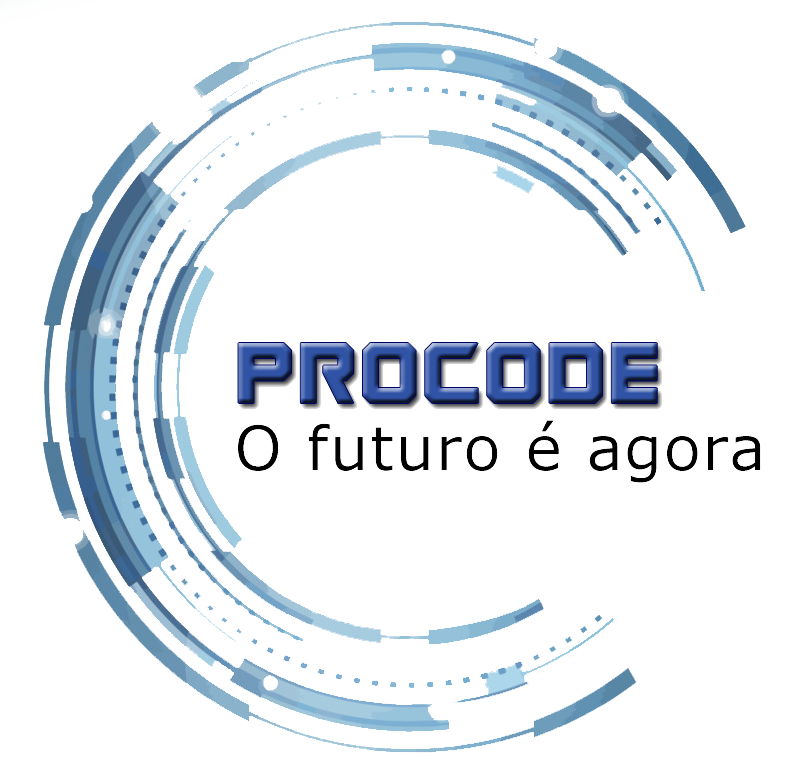
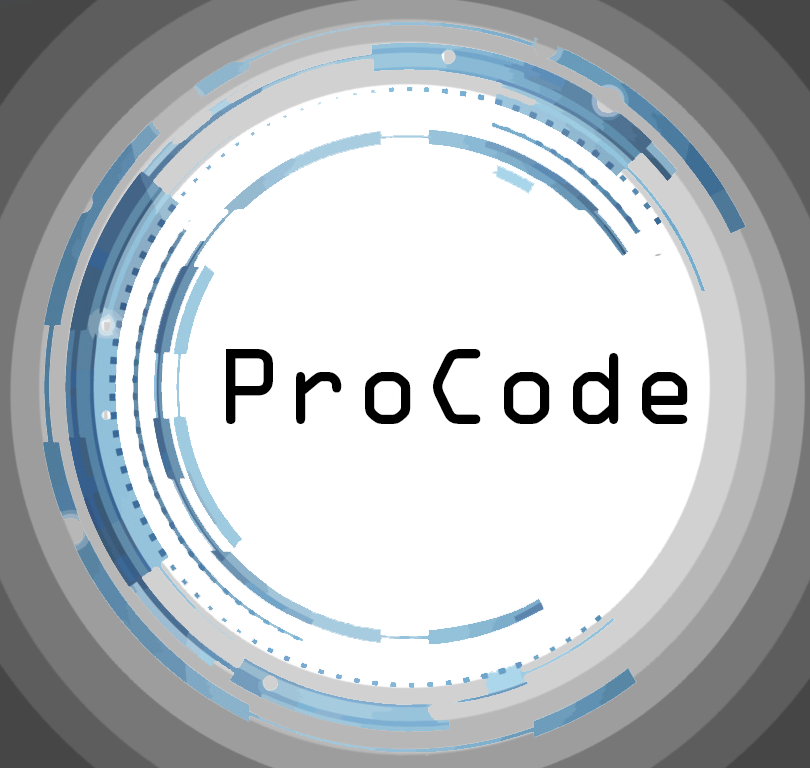
Felipe

diff --git a/css/style.css b/css/style.css
@@ -7,10 +7,11 @@
 
 body{
     font-family: sans-serif;
-    background-image: url('../imagens/background.png');
+    background-image: url('../imagens/background2.png');
     background-repeat: no-repeat;
     background-size: cover;
     background-attachment: fixed;
+    
 }
 
 header{
@@ -52,17 +53,20 @@ header{
 }
 
 #logo{
-    width: 500px;
-    height: 500px;
-/*    background-color: #3053a5;*/
+    width: 800px;
+    height: 300px;
+/*    background-color: yellow;*/
+    margin-top: 200px;
+    
     margin-left: auto;
     margin-right: auto;
-    margin-top: 100px;
+    
 }
 
 #logo img{
-    width: 500px;
-    height: 500px;
+    width: 100%;
+    margin-left: auto;
+    margin-right: auto;
 }
 
 #texto{

diff --git a/index.php b/index.php
@@ -65,10 +65,10 @@
         <section class="full_principal">
             <div class="content">
                 <div id="logo">
-                    <img src="imagens/teste.png">
+                    <img src="imagens/teste2.png">
                 </div>
                 <div id="texto">
-                    ProCode
+                    
                 </div>
                 <div id="slogan">
                     ProCode O Futuro é agora !
